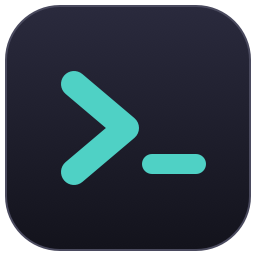
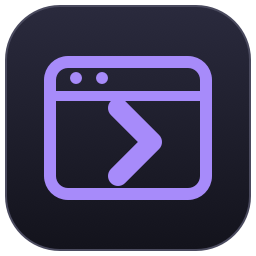
feat(desktop): put the flagship keys where they can actually be reached
A Logi application profile is only active while its app is FRONTMOST. The
terminal consoles survive that happily — you are in the terminal while you use
them. This product is the exact opposite: its promise is answering the agent
while you are somewhere else, so binding its keys to the app put Approve and
Deny on screen only in the one situation where they are useless, and hid them
the rest of the time. The auto-imported page was showing the right keys at
precisely the wrong moment.

So the packaged page becomes the in-app set — Activity, Mode, New Chat, Voice,
Stop — and the flagship four (Activity, Approve, Deny, Show ChatGPT) are
documented as a one-time placement on the user's DEFAULT profile, which is
active no matter what is in front. A test pins the absence of Approve/Deny from
the packaged page, because re-adding them would look like a courtesy and would
quietly teach the wrong model of where answering happens.

We cannot make that placement for the user. The default profile is their own
configuration; importing over it would destroy whatever they had there. So the
product's story changes from "install and it lights up" to "install, place four
keys once, then never switch windows to answer your agent again" — which is
worse marketing and an honest description.

"Open App" is renamed "Show ChatGPT". It never opened anything; the app is
already running and the key GOES there. The name comes from the adapter rather
[…]

Changed region(s): [[0.1562, 0.2188, 0.8438, 0.7812]]

diff --git a/tools/generate-plugin-icon.swift b/tools/generate-plugin-icon.swift
@@ -1,18 +1,24 @@
 // generate-plugin-icon.swift — renders a product's plugin icon (256×256 PNG).
 // A terminal prompt "❯_" on a dark rounded square, optionally with a sparkle.
 //
-// Usage: swift generate-plugin-icon.swift <output.png> [accentHex] [sparkleHex|none]
+// Usage: swift generate-plugin-icon.swift <output.png> [accentHex] [sparkleHex|none] [terminal|window]
 //   Claude Console : accent f59e0b, sparkle fde68a
 //   Vizhi for Codex: accent 4fd1c5, sparkle none
+//   Vizhi Desktop  : accent a78bfa, sparkle none, shape window
 //
 // The sparkle is a deliberate per-product choice, not decoration: it echoes Anthropic's mark, so a
-// product driving a different vendor's agent must not carry it. The shared terminal frame is what
-// makes the family read as one; the accent is what tells the two apart on the app strip.
+// product driving a different vendor's agent must not carry it. The chevron is what makes the
+// family read as one; the accent is what tells them apart on the app strip.
+//
+// The SHAPE says which surface the product drives, and it is not decoration either: a bare prompt
+// means a terminal, a window frame means a desktop app. Putting a TTY prompt on the product that
+// drives a GUI would be the icon telling the same lie the key faces are built to avoid.
 import AppKit
 
 let outPath = CommandLine.arguments.count > 1 ? CommandLine.arguments[1] : "Icon256x256.png"
 let accentHex = CommandLine.arguments.count > 2 ? CommandLine.arguments[2] : "f59e0b"
 let sparkleArg = CommandLine.arguments.count > 3 ? CommandLine.arguments[3] : "fde68a"
+let shape = CommandLine.arguments.count > 4 ? CommandLine.arguments[4].lowercased() : "terminal"
 let size: CGFloat = 256
 
 func hex(_ h: String, _ a: CGFloat = 1) -> NSColor {
@@ -44,21 +50,51 @@ hex("4a4a5e").setStroke(); bg.lineWidth = 2; bg.stroke()
 
 let amber = hex(accentHex)
 
-// --- prompt chevron "❯" (thick stroked polyline, vertex pointing right) ---
-let chev = NSBezierPath()
-chev.move(to: NSPoint(x: 74, y: 172))
-chev.line(to: NSPoint(x: 126, y: 128))
-chev.line(to: NSPoint(x: 74, y: 84))
-chev.lineWidth = 26
-chev.lineCapStyle = .round
-chev.lineJoinStyle = .round
-amber.setStroke()
-chev.stroke()
+// The chevron is the family mark; only its size and placement change with the shape.
+func chevron(tipX: CGFloat, midY: CGFloat, arm: CGFloat, width: CGFloat) -> NSBezierPath {
+    let p = NSBezierPath()
+    p.move(to: NSPoint(x: tipX - arm, y: midY + arm))
+    p.line(to: NSPoint(x: tipX, y: midY))
+    p.line(to: NSPoint(x: tipX - arm, y: midY - arm))
+    p.lineWidth = width
+    p.lineCapStyle = .round
+    p.lineJoinStyle = .round
+    return p
+}
 
-// --- cursor underscore (rounded bar to the right of the chevron) ---
-let cursor = NSBezierPath(roundedRect: NSRect(x: 142, y: 82, width: 64, height: 20), xRadius: 10, yRadius: 10)
-amber.setFill()
-cursor.fill()
+if shape == "window" {
+    // --- a window frame: this product drives a desktop app, not a TTY ---
+    let win = NSRect(x: 50, y: 62, width: 156, height: 132)
+    let frame = NSBezierPath(roundedRect: win, xRadius: 18, yRadius: 18)
+    amber.setStroke()
+    frame.lineWidth = 12
+    frame.stroke()
+
+    // title bar: a rule plus two dots, the universal shorthand for a window chrome
+    let barY = win.maxY - 34
+    let bar = NSBezierPath()
+    bar.move(to: NSPoint(x: win.minX + 6, y: barY))
+    bar.line(to: NSPoint(x: win.maxX - 6, y: barY))
+    bar.lineWidth = 10
+    bar.stroke()
+    amber.setFill()
+    for dx in [CGFloat(26), CGFloat(52)] {
+        NSBezierPath(ovalIn: NSRect(x: win.minX + dx - 6, y: barY + 12, width: 12, height: 12)).fill()
+    }
+
+    // the chevron, inside the window
+    amber.setStroke()
+    chevron(tipX: 152, midY: barY - 46, arm: 34, width: 20).stroke()
+} else {
+    // --- prompt chevron "❯" (thick stroked polyline, vertex pointing right) ---
+    amber.setStroke()
+    chevron(tipX: 126, midY: 128, arm: 44, width: 26).stroke()
+
+    // --- cursor underscore (rounded bar to the right of the chevron) ---
+    let cursor = NSBezierPath(roundedRect: NSRect(x: 142, y: 82, width: 64, height: 20), xRadius: 10, yRadius: 10)
+    amber.setFill()
+    cursor.fill()
+}
 
 // --- sparkle, top-right (4-point concave star) ---
 func sparkle(_ c: NSPoint, outer R: CGFloat, inner r: CGFloat) -> NSBezierPath {

diff --git a/tools/make-desktop-profile.py b/tools/make-desktop-profile.py
@@ -48,18 +48,26 @@ def act(type_name, param=None):
     return f"{base}___{param}" if param else base
 
 
-# The nine keys of page 1 (controlId 0-8: top row first). Status glances, Approve/Deny answer,
-# the middle row controls, Voice speaks, Focus is the one deliberate window-bringer.
+# This profile is bound to the app, and a Logi application profile is only ACTIVE WHILE ITS APP IS
+# FRONTMOST. So this page can only ever be the "I am looking at the app" set — and the product's
+# headline feature is the opposite case, answering the agent while you are somewhere else entirely.
+#
+# Those keys (Activity, Approve, Deny, Show ChatGPT) therefore belong on the user's DEFAULT
+# profile, which is active no matter what is in front. We cannot place them there ourselves: the
+# default profile is the user's own configuration and writing it would be hostile. The product
+# README makes that placement step one, and this page deliberately does NOT duplicate them —
+# a key that appears only when you do not need it teaches the wrong model of where answering
+# happens.
 PAGE_ONE = [
-    act("DesktopStatusCommand"),                  # 0
-    act("DesktopApprovalCommand", "approve"),     # 1
-    act("DesktopApprovalCommand", "deny"),        # 2
-    act("DesktopControlCommand", "stop"),         # 3
-    act("DesktopControlCommand", "mode"),         # 4
-    act("DesktopControlCommand", "new_chat"),     # 5
-    act("DesktopVoiceCommand"),                   # 6
-    act("DesktopControlCommand", "focus"),        # 7
-    None,                                         # 8 spare
+    act("DesktopStatusCommand"),                  # 0  useful everywhere, so it earns a slot here too
+    act("DesktopControlCommand", "mode"),         # 1  ChatGPT <-> Codex
+    act("DesktopControlCommand", "new_chat"),     # 2
+    act("DesktopVoiceCommand"),                   # 3  dictate into the composer — best while in the app
+    act("DesktopControlCommand", "stop"),         # 4
+    None,                                         # 5
+    None,                                         # 6
+    None,                                         # 7
+    None,                                         # 8
 ]
 
 

diff --git a/tests/DesktopRegistrationTests.cs b/tests/DesktopRegistrationTests.cs
@@ -106,6 +106,25 @@ namespace Loupedeck.ClaudeConsolePlugin.Tests
             Assert.All(bound, a => Assert.StartsWith("$VizhiDesktop___", a));
         }
 
+        [Fact]
+        public void The_app_bound_page_carries_no_approval_keys()
+        {
+            // This profile is only ACTIVE WHILE THE APP IS FRONTMOST, so it can never be where
+            // answering-from-elsewhere happens — that set belongs on the user's default profile
+            // (see the product README). Duplicating Approve/Deny here would put them on screen
+            // exactly when the card is already in front of the user, teaching the wrong model.
+            using var zip = System.IO.Compression.ZipFile.OpenRead(DesktopLp5());
+            using var reader = new StreamReader(zip.GetEntry("ProfileInfo.json").Open());
+            var profile = JsonNode.Parse(reader.ReadToEnd());
+
+            var bound = profile["layout"]["layoutModes"][0]["workspaces"][0]["pressPages"][0]["controls"]
+                .AsArray().Select(c => (String)c["pressAction"]).Where(a => a != null).ToList();
+
+            Assert.DoesNotContain(bound, a => a.Contains("DesktopApprovalCommand"));
+            // ...and the escape hatch is pointless here too: you are already looking at the app.
+            Assert.DoesNotContain(bound, a => a.EndsWith("___focus"));
+        }
+
         private static String RepoFile(params String[] parts)
         {
             var dir = AppContext.BaseDirectory;

diff --git a/src/Core/DesktopActions/DesktopControlCommand.cs b/src/Core/DesktopActions/DesktopControlCommand.cs
@@ -48,8 +48,11 @@ namespace Loupedeck.ClaudeConsolePlugin.DesktopActions
                     .SetDescription("Switch between the app's modes (ChatGPT ⇄ Codex)");
             }
 
-            this.AddParameter(Focus, "Open App", "Agent")
-                .SetDescription("Bring the app's window to the front — for when you need to look");
+            // "Open" read as "launch it" — but the app is already running; this key GOES there.
+            // Most useful on an always-on profile: it is the escape hatch from the editor you
+            // were working in, and on the app-bound page it is redundant by definition.
+            this.AddParameter(Focus, $"Show {DesktopServices.App.ShortName}", "Agent")
+                .SetDescription($"Bring {DesktopServices.App.ShortName} to the front — for when you need to look before answering");
 
             DesktopServices.Monitor.OnChanged += _ => this.ActionImageChanged();
         }
@@ -114,7 +117,7 @@ namespace Loupedeck.ClaudeConsolePlugin.DesktopActions
                 Stop => "Stop",
                 NewChat => "New Chat",
                 Mode => "Mode",
-                Focus => "Open App",
+                Focus => DesktopServices.Declared ? $"Show {DesktopServices.App.ShortName}" : "Show App",
                 _ => actionParameter,
             };
         }

diff --git a/src/Core/Desktop/IDesktopAppAdapter.cs b/src/Core/Desktop/IDesktopAppAdapter.cs
@@ -20,8 +20,15 @@ namespace Loupedeck.ClaudeConsolePlugin.Desktop
         /// <summary>Stable id for logs, e.g. "openai-desktop".</summary>
         String Id { get; }
 
-        /// <summary>Human name for key faces and logs.</summary>
+        /// <summary>Human name for logs and listings.</summary>
         String DisplayName { get; }
+
+        /// <summary>
+        /// The app's name as it should appear ON A KEY — short enough to read at key size, and
+        /// the name the user calls it in their Dock, not our product name. "Show ChatGPT" tells
+        /// you where the key takes you; "Show App" makes you guess.
+        /// </summary>
+        String ShortName { get; }
 
         /// <summary>macOS bundle id the helper attaches to, e.g. "com.openai.codex".</summary>
         String BundleId { get; }

diff --git a/tests/OpenAiDesktopAdapterTests.cs b/tests/OpenAiDesktopAdapterTests.cs
@@ -26,6 +26,15 @@ namespace Loupedeck.ClaudeConsolePlugin.Tests
         }
 
         [Fact]
+        public void The_short_name_is_what_a_user_calls_the_app_and_fits_a_key()
+        {
+            // It renders as "Show {ShortName}" on a key face, so it must be the Dock name rather
+            // than our product name, and short enough to read at key size.
+            Assert.Equal("ChatGPT", _app.ShortName);
+            Assert.True(_app.ShortName.Length <= 12, "too long to read on a key");
+        }
+
+        [Fact]
         public void The_card_labels_are_the_ones_seen_on_the_live_card()
         {
             Assert.Contains("Allow once", _app.ApproveLabels);

diff --git a/src/Agents/OpenAiDesktop/OpenAiDesktopAdapter.cs b/src/Agents/OpenAiDesktop/OpenAiDesktopAdapter.cs
@@ -22,6 +22,8 @@ namespace Loupedeck.ClaudeConsolePlugin.Desktop
 
         public String DisplayName => "ChatGPT (Codex)";
 
+        public String ShortName => "ChatGPT";
+
         public String BundleId => "com.openai.codex";
 
         public String MacProcessName => "ChatGPT";

diff --git a/src/Products/VizhiDesktop/README.md b/src/Products/VizhiDesktop/README.md
@@ -1,0 +1,92 @@
+# Vizhi Desktop
+
+**Physical hardware controls for the ChatGPT / Codex desktop app on the Logitech MX Creative Keypad.**
+
+> Answer your agent without going to it.
+
+Vizhi Desktop watches the desktop app through the macOS Accessibility API and puts its approval
+prompt on a physical key. When Codex needs permission to run something, the key lights — amber for
+routine work, red when the command it is asking about looks destructive — and one press answers it
+**without the app ever coming to the front**. Your editor keeps focus. Nothing is typed into the
+wrong window, because nothing is typed at all.
+
+Built on the same engine as [Claude Console](../../../README.md) and
+[Vizhi for Codex](../VizhiCodex/README.md): one core, one adapter per surface, one package per
+product. *(Not an OpenAI product; ChatGPT and Codex are trademarks of OpenAI.)*
+
+> **This one coexists.** Unlike the two terminal consoles — which both bind to Terminal.app and
+> therefore cannot both be active — Vizhi Desktop binds to the ChatGPT app's own bundle, which
+> nothing else claims. You can run it alongside Claude Console or Vizhi for Codex.
+
+## Status
+
+**Preview, macOS only.** The Accessibility mechanism is verified end to end on a live app:
+reading the approval card unfocused, pressing Allow/Deny with another app frontmost and no focus
+theft, writing and submitting the composer, and switching the app between its ChatGPT and Codex
+modes — all while the app sat in the background. Windows needs a different mechanism (UI
+Automation) and its recon has not been run.
+
+## Setup — the part that matters
+
+Installing gives you an auto-imported page that appears **when the ChatGPT app is frontmost**.
+That page is useful, but it is not the point of this product, because a Logi application profile
+is only active while its application is in front — and the whole idea here is answering the agent
+while you are somewhere else.
+
+**So the first thing to do after installing is place four keys on your default profile**, which is
+active no matter what you are looking at:
+
+| Key | What it gives you |
+|---|---|
+| **Activity** | Working / Waiting / Ready at a glance — and *Hidden* when the app's window is locked or gone, because "cannot see" is not the same as "nothing to do" |
+| **Approve** | Answers the pending request. Shows the card's own text, amber for routine, **red** when the command looks destructive |
+| **Deny** | The other half. Lit only while something is actually pending |
+| **Show ChatGPT** | The escape hatch: brings the app forward when you want to look before deciding |
+
+In Logi Options+, select your default profile, then drag those four actions from **Vizhi Desktop**
+onto whichever keys you like.
+
+**Why you have to do this by hand:** your default profile is your configuration. A plugin that
+imported itself over it would wipe whatever you already had there, so this product doesn't. It is
+one placement, once.
+
+## The auto-imported page
+
+Bound to the app, so it appears while ChatGPT is frontmost — the keys that only make sense when
+you are actually looking at it:
+
+| Key | Action |
+|---|---|
+| **Activity** | Same status face as above |
+| **Mode** | Switch between ChatGPT and Codex. The key shows the mode you are in; pressing moves to the other |
+| **New Chat** | Fresh conversation |
+| **Voice** | Hold a thought, speak it, and it lands in the composer and sends. Fully offline (whisper.cpp), no cloud, no API key |
+| **Stop** | Interrupt the running task |
+
+Approve and Deny are deliberately **not** duplicated here. If you are looking at the app, the card
+is on your screen — a key that appears only when you do not need it teaches the wrong idea of
+where answering happens.
+
+## What it will not do
+
+- **No "Always allow" key.** The app offers it; this keypad does not bind it. Standing permission
+  to run anything should not be one elbow away on a physical device.
+- **No cost or context keys.** The desktop app publishes neither, and this keypad never shows a
+  number the agent did not report. (The terminal consoles show cost for Claude Code because Claude
+  Code reports it.)
+- **No typing into the wrong window.** Every action addresses the app's controls directly through
+  Accessibility rather than sending keystrokes, so there is no focused window to get wrong.
+
+## Permissions
+
+- **Accessibility** — for the Logi Plugin Service, so the plugin can read and press the app's
+  controls. macOS will ask once.
+- **Microphone** — only if you use the Voice key, and granted to the small bundled helper rather
+  than to the service. Shared with the other consoles: one helper, one grant, one speech model.
+
+## Requirements
+
+- macOS 13+, Apple Silicon or Intel
+- The ChatGPT desktop app, signed in
+- Logi Options+ with the Logi Plugin Service 6.4 or newer
+- MX Creative Keypad

diff --git a/docs/desktop-product-plan.md b/docs/desktop-product-plan.md
@@ -35,6 +35,22 @@ isn't one.
 
 ## Page layout (9 LCD keys per page)
 
+> **Where these keys live — settled on hardware 2026-08-25.** A Logi application profile is only
+> ACTIVE WHILE ITS APP IS FRONTMOST. The terminal products get away with binding their keys to the
+> app they drive, because you are *in* the terminal while using them. This product is the opposite:
+> its whole promise is answering the agent while you are somewhere else, so an app-bound page
+> would show the approval keys exactly when you least need them — and would hide them the rest of
+> the time. The flagship set (**Activity, Approve, Deny, Show ChatGPT**) therefore belongs on the
+> user's **default profile**, which is active regardless of what is in front, and the product
+> README makes that placement step one. We cannot do it for them: the default profile is the
+> user's own configuration and importing over it would destroy whatever they had.
+>
+> The packaged, auto-imported page is consequently the *in-app* set only — Activity, Mode, New
+> Chat, Voice, Stop — and deliberately does not duplicate Approve/Deny/Show (pinned by a test).
+> This costs the product its "install and it lights up" story and replaces it with "install, place
+> four keys once". That is the honest trade, and it is worth it: the alternative is a headline
+> feature that only works in the one situation it was built to avoid.
+
 ### Page 1 — Codex operator (the flagship)
 
 | Key | Face behaviour | User value |

diff --git a/CLAUDE.md b/CLAUDE.md
@@ -32,6 +32,12 @@ DOTNET_ROLL_FORWARD=LatestMajor bash tools/voice/pack-release.sh <ver> <Product>
 - **`dotnet build` mutates your live Logi install.** It writes a dev `.link` and reloads
   LogiPluginService. Use `-t:Compile` to check compilation, or `-p:SkipPluginLink=true` for a
   full build that leaves the installed plugin alone.
+- **`-t:Compile` can poison the next real build.** It shares `obj/` with a full build, and a
+  full build that follows it may reuse an output with **no embedded resources** — the plugin
+  loads, every key renders as bare text, and the log says `Could not find file 'icons.*.png'`.
+  It reads exactly like a broken plugin, not a stale build. A resource-less product DLL is
+  ~140 KB against ~1 MB with icons, so `ls -la` the DLL before debugging anything else; the fix
+  is `rm -rf src/Products/<Product>/obj bin/<Product>` and rebuild. (Cost an hour on 2026-08-25.)
 - **`logiplugintool` needs `DOTNET_ROLL_FORWARD=LatestMajor`** — it targets .NET 8 and the
   default runtime here is 10, so packing fails without it.
 - Never install a package *and* keep a dev `.link`: the service sees the plugin twice, refuses
